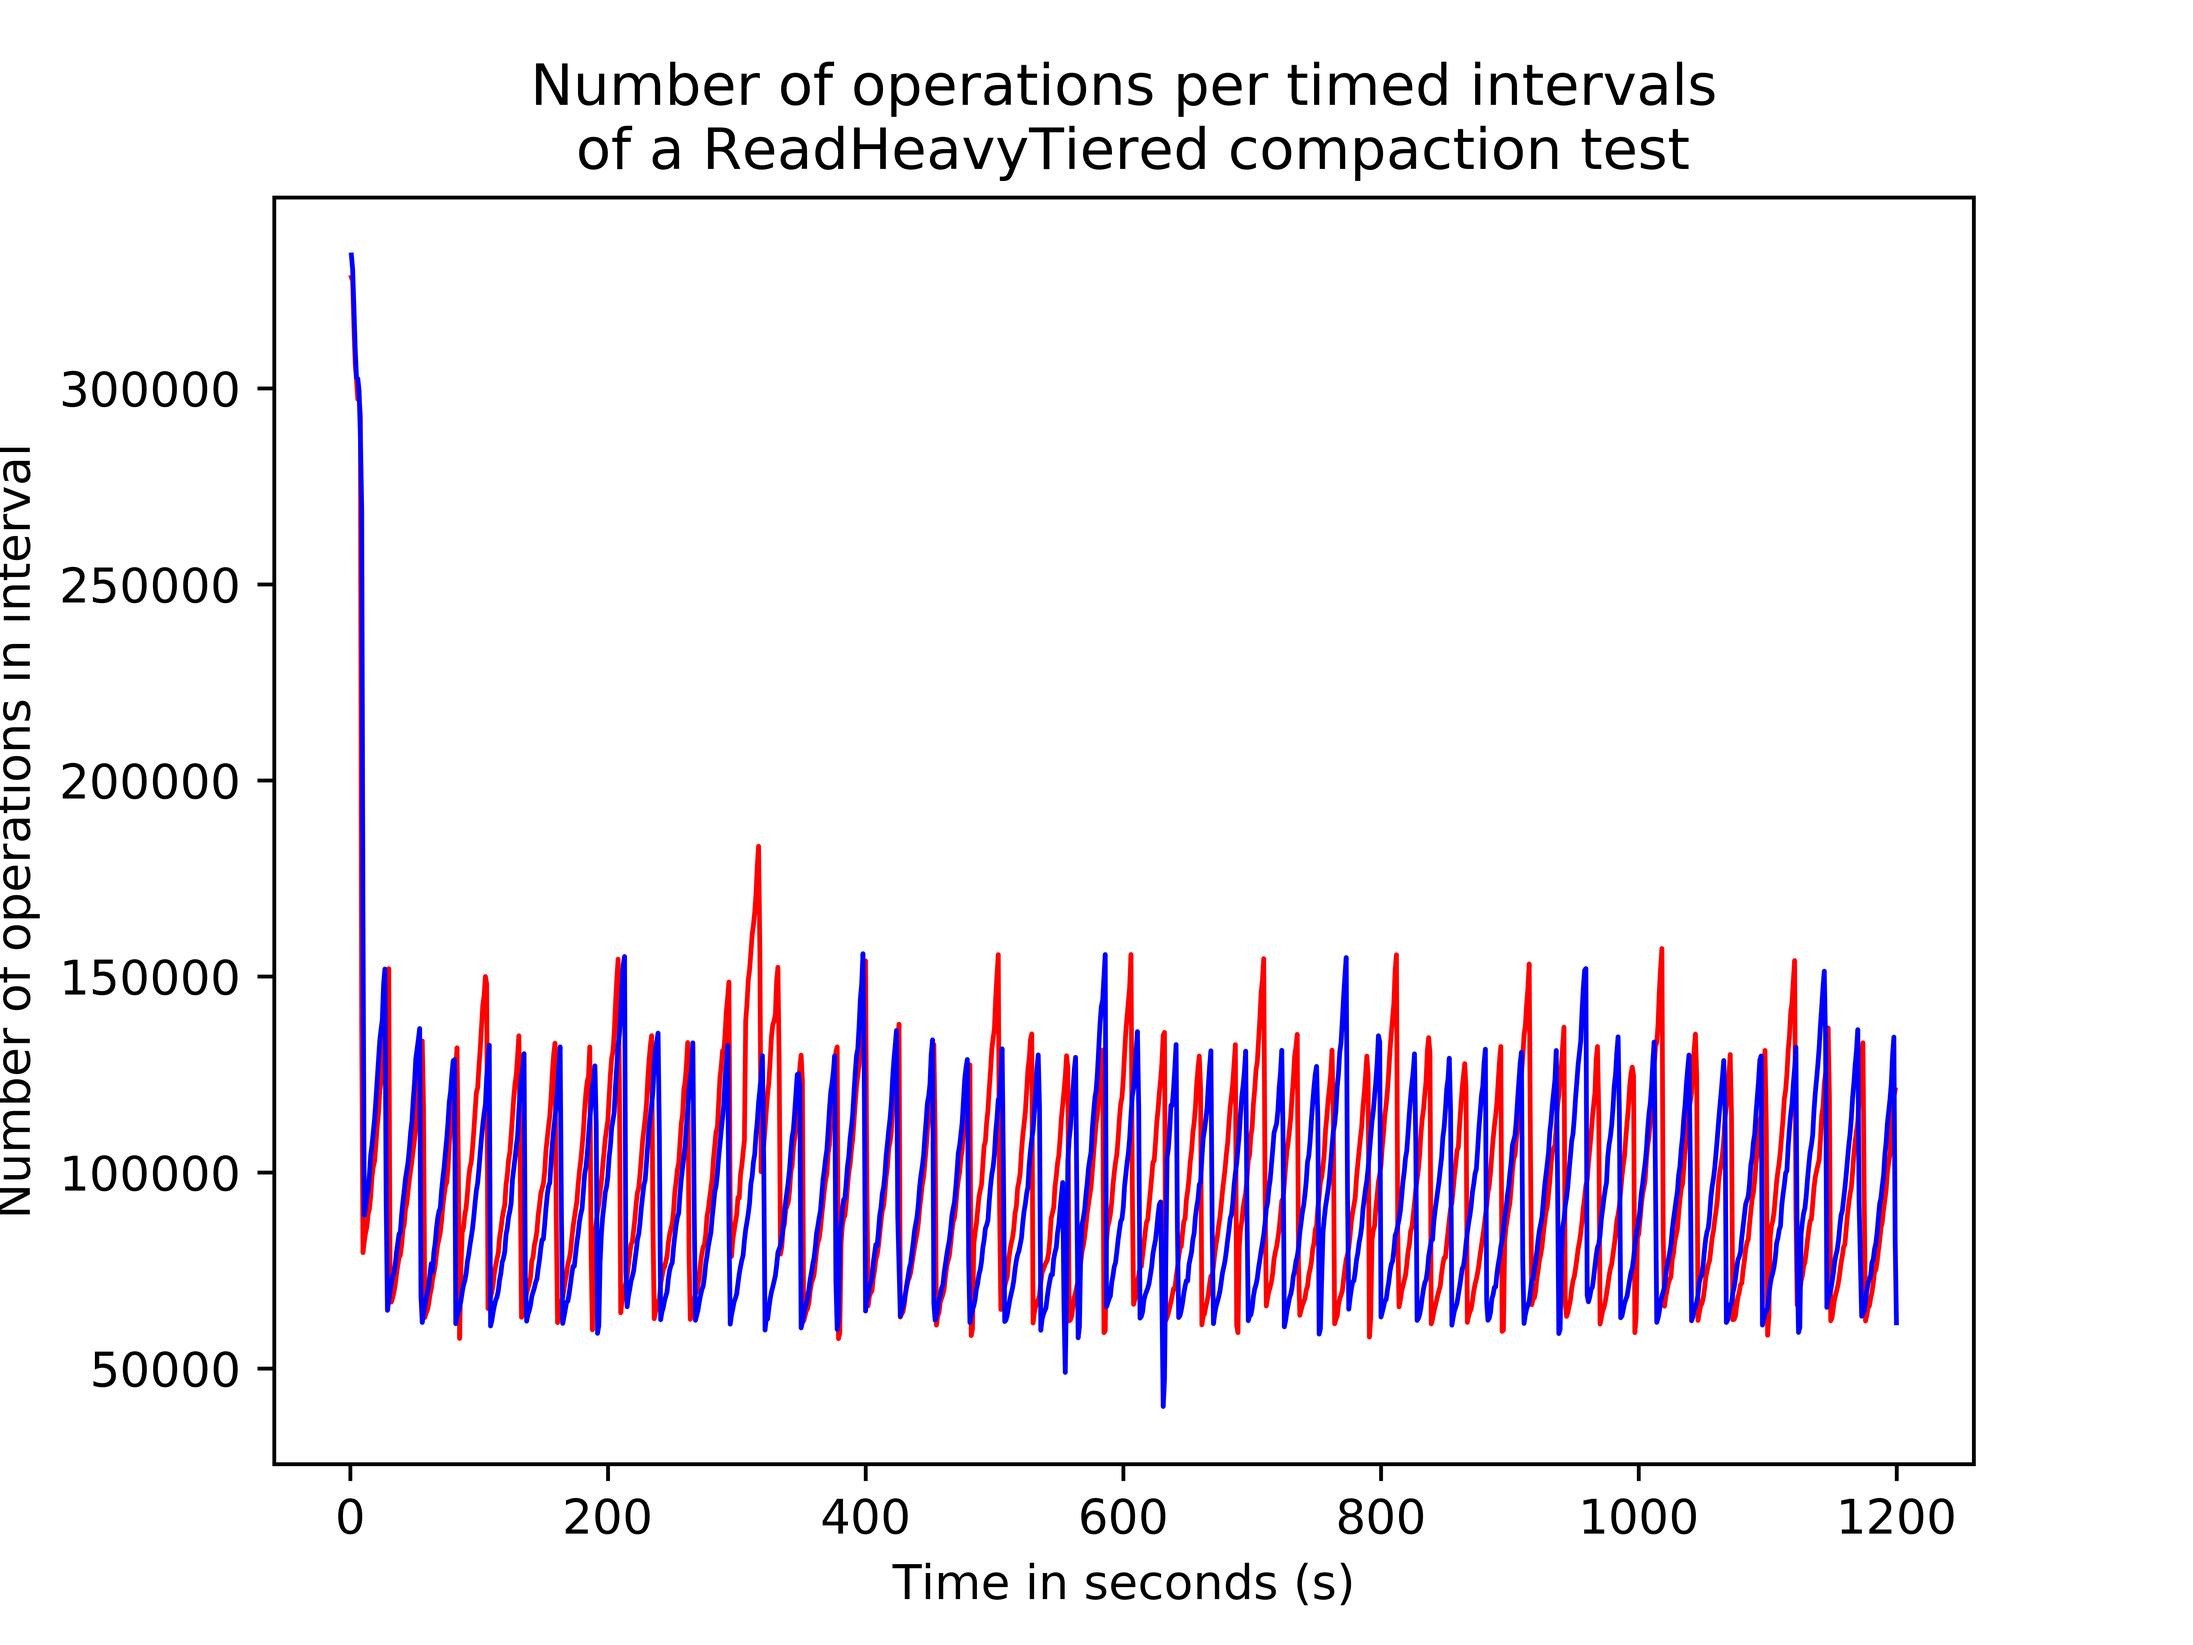
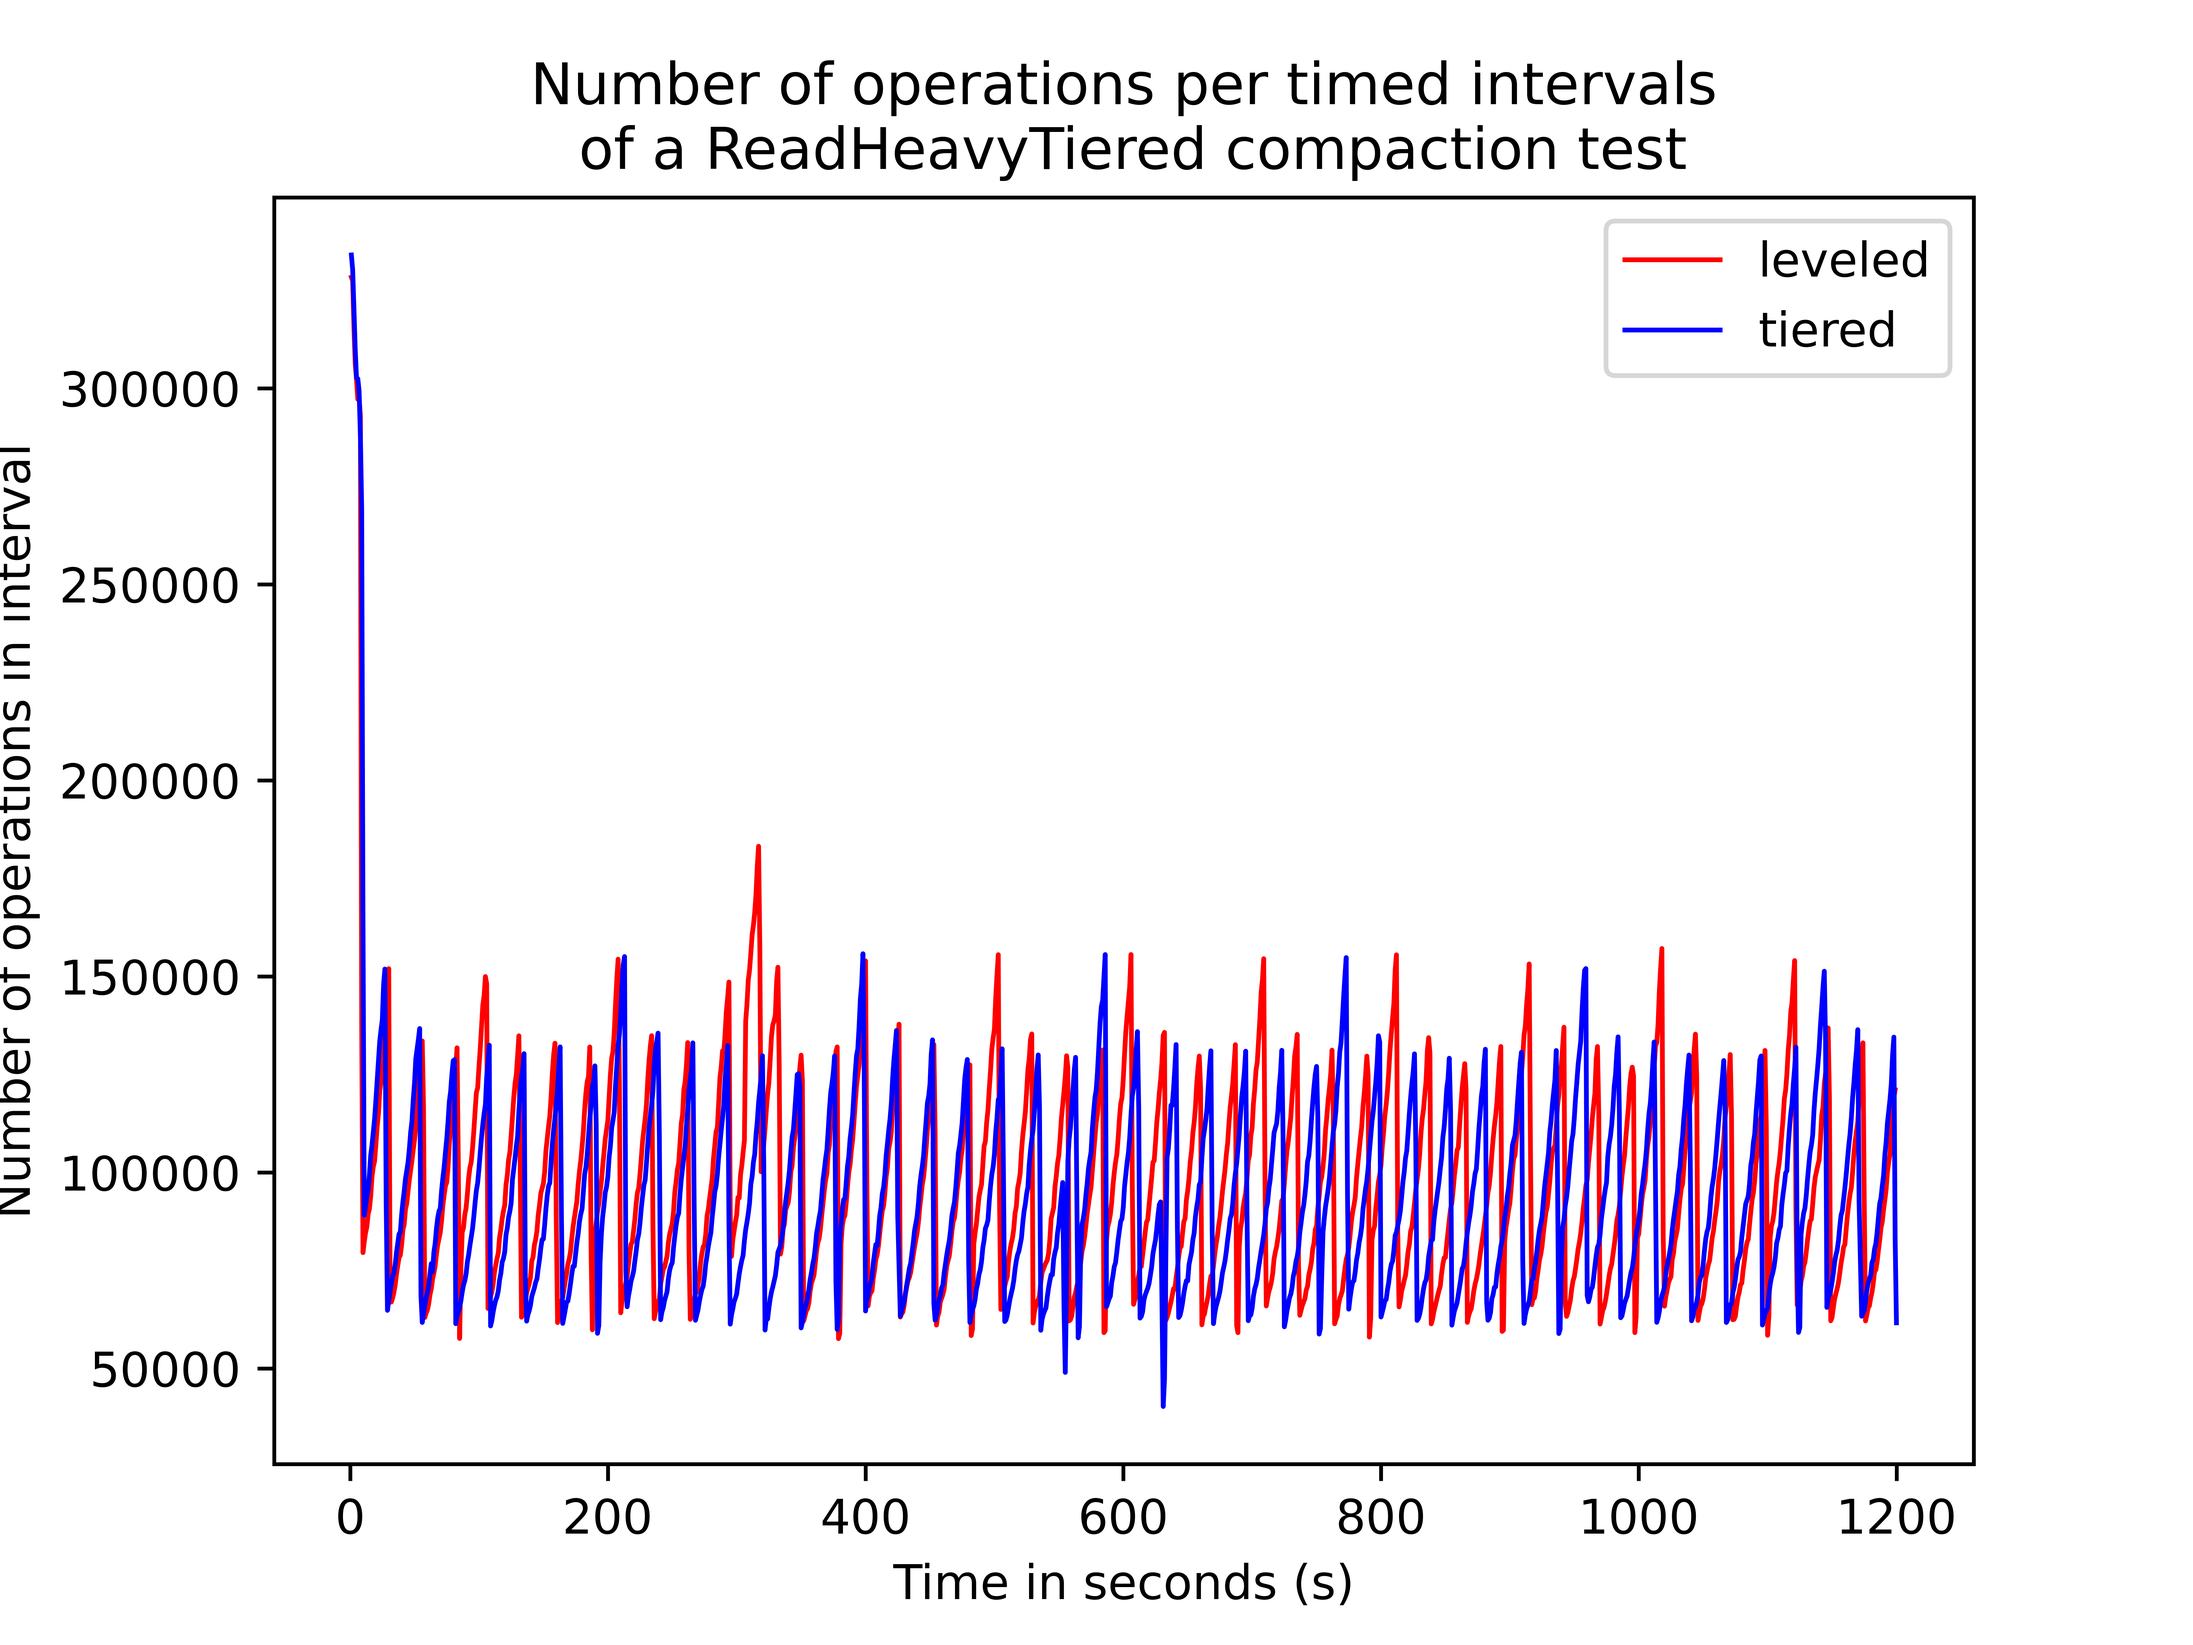
1h run

diff --git a/analysis/src/interval.py b/analysis/src/interval.py
@@ -1,10 +1,11 @@
 import matplotlib.pyplot as plt
 import dbbenchParser as parser
 
-duration = 1200
+duration = 3600
 res = 1000
 
-def plotOperations(filename, color):
+# Method to plot the number of operations using a time interval file
+def plotOperations(filename, color, leg):
     f = open(filename, 'r')
     lines = f.readlines()
     f.close()
@@ -23,16 +24,16 @@ def plotOperations(filename, color):
         x.append(int(data[0]))
         y.append(int(data[1].split('\n')[0]))
     
-    plt.plot(x,y, color = color,  linewidth=1)
-    title = "Number of operations per timed intervals\n of a " + name + " compaction test"
-    plt.title(title)
+    plt.plot(x,y, color = color,  linewidth=1, label=leg)
+    plt.legend()
 
     plt.xlabel(xlabel)
     plt.ylabel(ylabel)
 
-    outputFilename = "analysis/plots/long/intervals/" + name + ".png"
+    outputFilename = "analysis/plots/Operations" + name + ".png"
     plt.savefig(outputFilename, dpi= res)
 
+# Method to plot the write 99th percentile per interval of a run from the ouput file
 def plotWrite99(filename1, filename2):
     name = filename1.split('.')[0]
     name = name.split('/')[3]
@@ -73,6 +74,7 @@ def plotWrite99(filename1, filename2):
     plt.savefig(outputFilename, dpi= res)
     plt.clf()
 
+# Method to plot the read 99th percentile per interval of a run from the ouput file
 def plotRead99(filename1, filename2):
     name = filename1.split('.')[0]
     name = name.split('/')[3]
@@ -114,6 +116,7 @@ def plotRead99(filename1, filename2):
     plt.savefig(outputFilename, dpi= res)
     plt.clf()
 
+# Method to plot the number of bytes compacted per interval of a run from the ouput file
 def plotCompactionWritten(filename1, filename2):
     name = filename1.split('.')[0]
     name = name.split('/')[3]
@@ -157,17 +160,17 @@ def plotCompactionWritten(filename1, filename2):
 
 
 def main():
-    plotOperations("analysis/dbbenchResults/final/ReadHeavyLeveledReport.csv", 'r')
-    plotOperations("analysis/dbbenchResults/final/ReadHeavyTieredReport.csv", 'b')
+    plotOperations("analysis/dbbenchResults/final/ReadHeavyLeveledReport.csv", 'r', 'Leveled')
+    plotOperations("analysis/dbbenchResults/final/ReadHeavyTieredReport.csv", 'b', 'Tiered')
     plt.clf()
-    plotOperations("analysis/dbbenchResults/final/WriteHeavyLeveledReport.csv", 'r')
-    plotOperations("analysis/dbbenchResults/final/WriteHeavyTieredReport.csv", 'b')
+    plotOperations("analysis/dbbenchResults/final/WriteHeavyLeveledReport.csv", 'r', 'Leveled')
+    plotOperations("analysis/dbbenchResults/final/WriteHeavyTieredReport.csv", 'b', 'Tiered')
     plt.clf()
-    plotOperations("analysis/dbbenchResults/final/ZipfianWriteHeavyLeveledReport.csv", 'r')
-    plotOperations("analysis/dbbenchResults/final/ZipfianWriteHeavyTieredReport.csv", 'b')
+    plotOperations("analysis/dbbenchResults/final/ZipfianWriteHeavyLeveledReport.csv", 'r', 'Leveled')
+    plotOperations("analysis/dbbenchResults/final/ZipfianWriteHeavyTieredReport.csv", 'b', 'Tiered')
     plt.clf()
-    plotOperations("analysis/dbbenchResults/final/ZipfianReadHeavyLeveledReport.csv", 'r')
-    plotOperations("analysis/dbbenchResults/final/ZipfianReadHeavyTieredReport.csv", 'b')
+    plotOperations("analysis/dbbenchResults/final/ZipfianReadHeavyLeveledReport.csv", 'r', 'Leveled')
+    plotOperations("analysis/dbbenchResults/final/ZipfianReadHeavyTieredReport.csv", 'b', 'Tiered')
     plt.clf()
 
     plotWrite99("analysis/dbbenchResults/final/IntervalWriteHeavyLeveled.txt", "analysis/dbbenchResults/final/IntervalWriteHeavyTiered.txt")
@@ -185,10 +188,6 @@ def main():
     plotWrite99("analysis/dbbenchResults/final/IntervalZipfianReadHeavyLeveled.txt", "analysis/dbbenchResults/final/IntervalZipfianReadHeavyTiered.txt")
     plotRead99("analysis/dbbenchResults/final/IntervalZipfianReadHeavyLeveled.txt", "analysis/dbbenchResults/final/IntervalZipfianReadHeavyTiered.txt")
     plotCompactionWritten("analysis/dbbenchResults/final/IntervalZipfianReadHeavyLeveled.txt", "analysis/dbbenchResults/final/IntervalZipfianReadHeavyTiered.txt")
-
-
-
-
 
 if __name__ == "__main__":
 	main()
